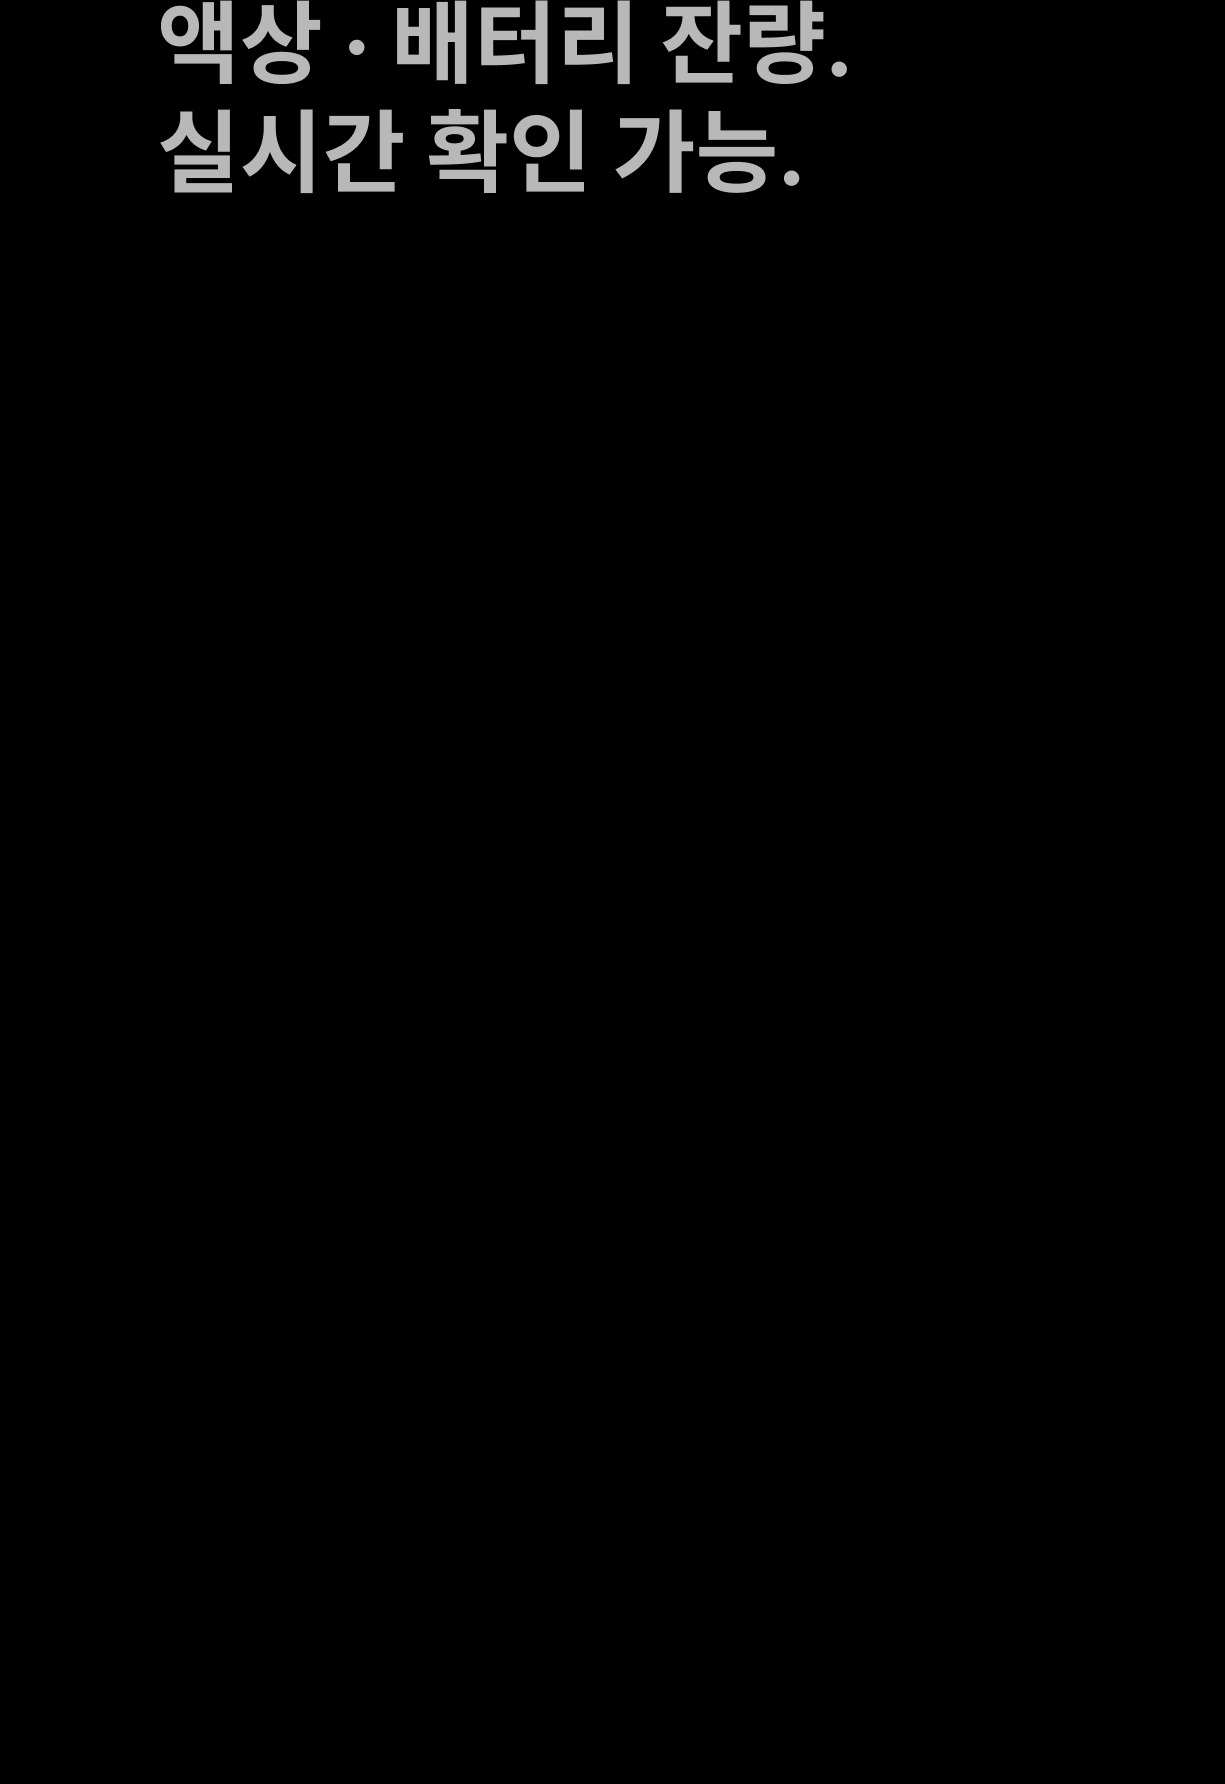
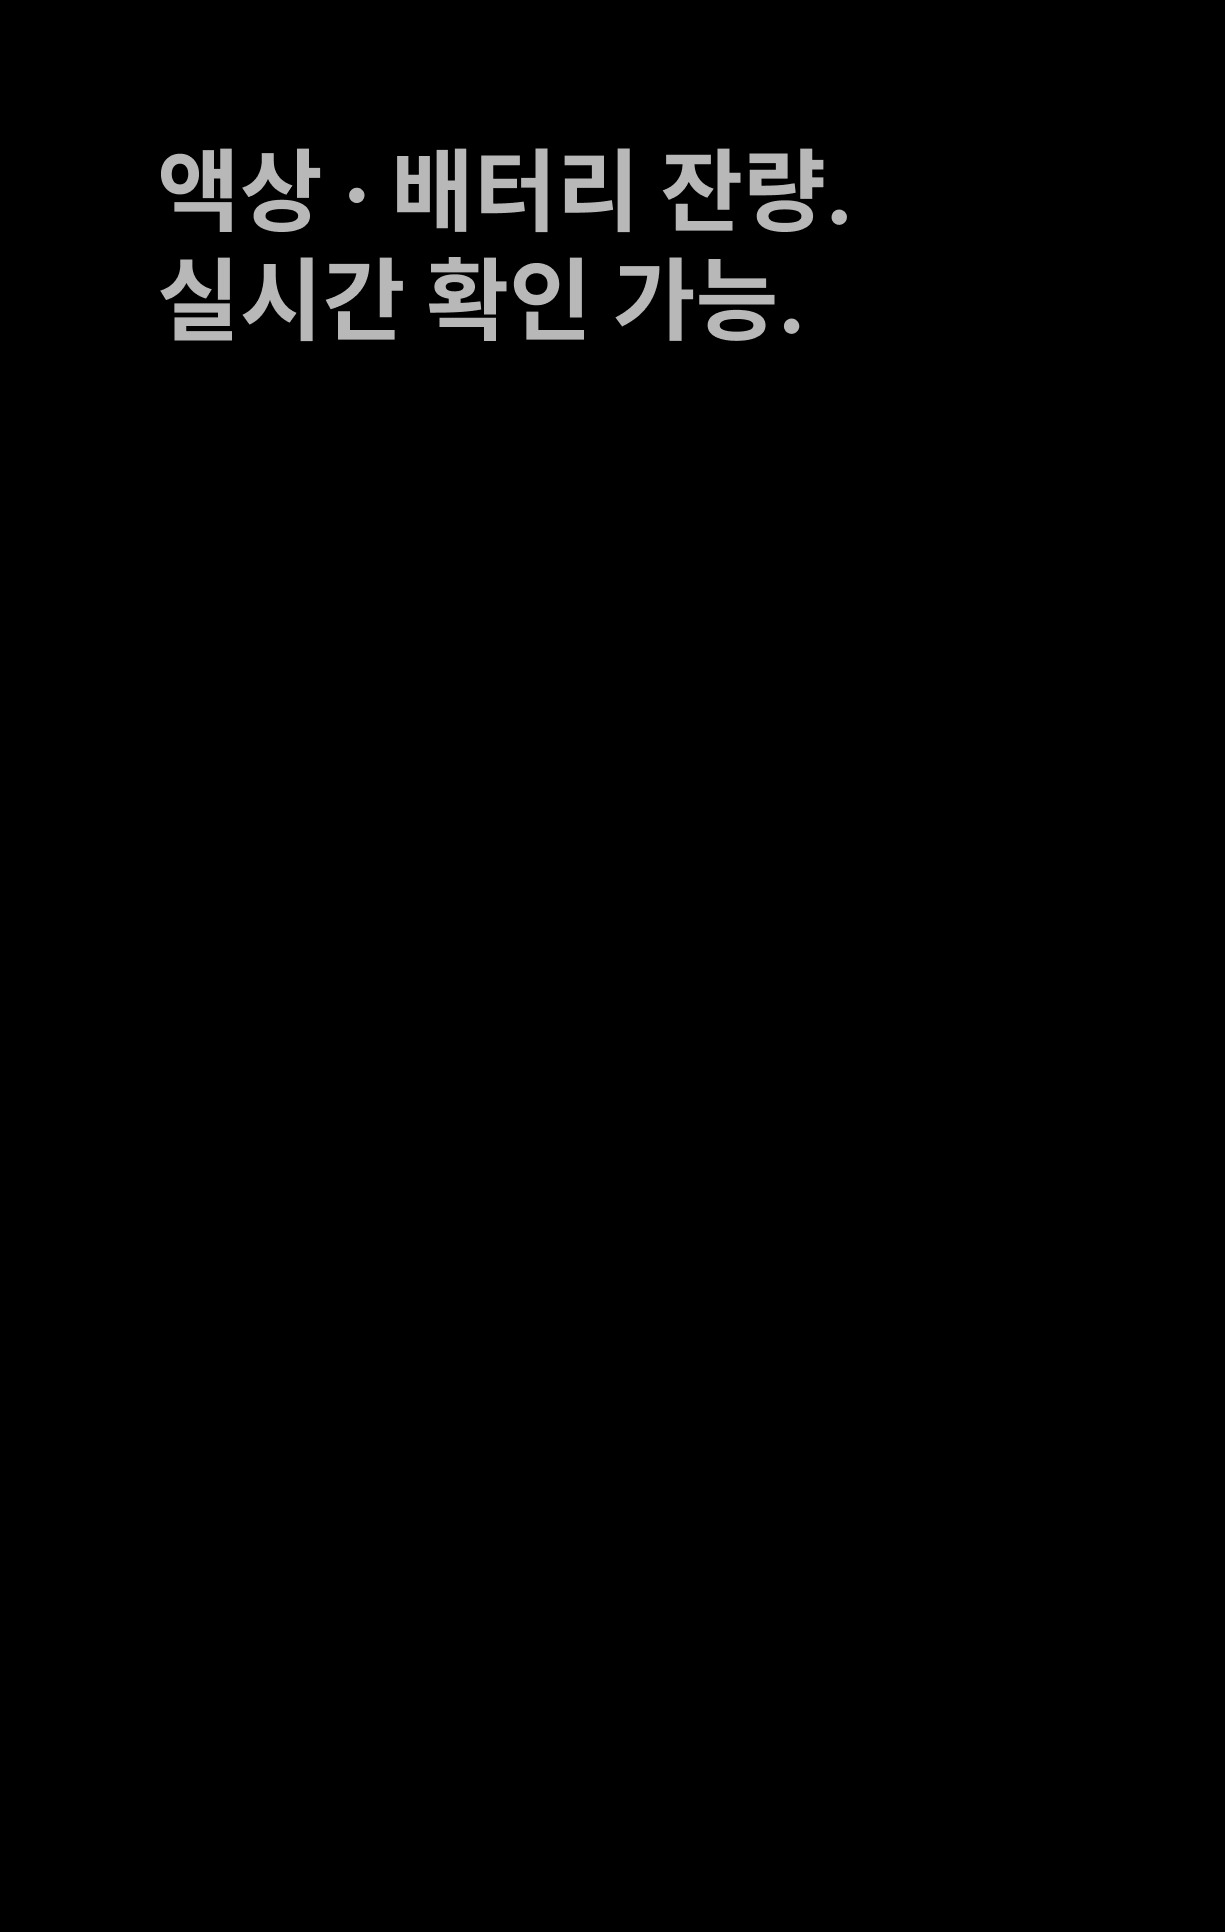
Fix frame51_4: correct slot positions matching v1/v2/v3 (8555-9470 etc)

Changed region(s): [[0.1241, 0.0, 0.6824, 0.185]]

diff --git a/frame51_4.html b/frame51_4.html
@@ -7,34 +7,101 @@
 <style>
 * { margin:0; padding:0; box-sizing:border-box; }
 body { background:#111; display:flex; justify-content:center; }
-.page { position:relative; width:1225px; height:24150px; overflow:hidden; }
+.page {
+  position:relative;
+  width:1225px;
+  height:24150px;
+  overflow:hidden;
+}
 .abs { position:absolute; left:0; }
 img.slice { display:block; width:100%; height:100%; object-fit:cover; }
 video { display:block; width:100%; height:100%; object-fit:cover; }
 </style>
 </head>
 <body>
-<div id="sticky-header" style="position:fixed;top:0;left:50%;transform:translateX(-50%);width:1225px;height:280px;overflow:hidden;z-index:9999;">
+<!-- 상단 고정 헤더 -->
+<div id="sticky-header" style="
+  position:fixed;
+  top:0;
+  left:50%;
+  transform:translateX(-50%);
+  width:1225px;
+  height:280px;
+  overflow:hidden;
+  z-index:9999;
+">
   <img src="frame51_4_slices/s0.jpg" style="display:block;width:1225px;">
 </div>
+
 <div class="page">
-  <div class="abs" style="top:0px;width:1225px;height:9081px;"><img class="slice" src="frame51_4_slices/s0.jpg"></div>
-  <div class="abs" style="top:9081px;width:1225px;height:511px;"><video autoplay loop muted playsinline><source src="1_3번gif.mp4" type="video/mp4"></video></div>
-  <div class="abs" style="top:9592px;width:1225px;height:1201px;"><img class="slice" src="frame51_4_slices/s1.jpg"></div>
-  <div class="abs" style="top:10793px;width:1225px;height:506px;"><video autoplay loop muted playsinline><source src="2번gif.mp4" type="video/mp4"></video></div>
-  <div class="abs" style="top:11299px;width:1225px;height:1226px;"><img class="slice" src="frame51_4_slices/s2.jpg"></div>
-  <div class="abs" style="top:12525px;width:1225px;height:615px;"><video autoplay loop muted playsinline><source src="3_4번gif.mp4" type="video/mp4"></video></div>
-  <div class="abs" style="top:13140px;width:1225px;height:1178px;"><img class="slice" src="frame51_4_slices/s3.jpg"></div>
-  <div class="abs" style="top:14318px;width:1225px;height:540px;"><video autoplay loop muted playsinline><source src="4_1번gif.mp4" type="video/mp4"></video></div>
-  <div class="abs" style="top:14858px;width:1225px;height:1224px;"><img class="slice" src="frame51_4_slices/s4.jpg"></div>
-  <div class="abs" style="top:16082px;width:1225px;height:576px;"><video autoplay loop muted playsinline><source src="5_1번gif.mp4" type="video/mp4"></video></div>
-  <div class="abs" style="top:16658px;width:1225px;height:1186px;"><img class="slice" src="frame51_4_slices/s5.jpg"></div>
-  <div class="abs" style="top:17844px;width:1225px;height:595px;"><video autoplay loop muted playsinline><source src="6_1번gif.mp4" type="video/mp4"></video></div>
-  <div class="abs" style="top:18439px;width:1225px;height:1241px;"><img class="slice" src="frame51_4_slices/s6.jpg"></div>
-  <div class="abs" style="top:19680px;width:1225px;height:570px;"><video autoplay loop muted playsinline><source src="7_1번gif.mp4" type="video/mp4"></video></div>
-  <div class="abs" style="top:20250px;width:1225px;height:1531px;"><img class="slice" src="frame51_4_slices/s7.jpg"></div>
-  <div class="abs" style="top:21781px;width:1225px;height:585px;"><video autoplay loop muted playsinline><source src="8번gif.mp4" type="video/mp4"></video></div>
-  <div class="abs" style="top:22366px;width:1225px;height:1784px;"><img class="slice" src="frame51_4_slices/s8.jpg"></div>
+  <!-- 정적 -->
+  <div class="abs" style="top:0px;width:1225px;height:8555px;">
+    <img class="slice" src="frame51_4_slices/s0.jpg">
+  </div>
+  <!-- 영상 슬롯 -->
+  <div class="abs" style="top:8555px;width:1225px;height:915px;">
+    <video autoplay loop muted playsinline><source src="1_3번gif.mp4" type="video/mp4"></video>
+  </div>
+  <!-- 정적 -->
+  <div class="abs" style="top:9470px;width:1225px;height:794px;">
+    <img class="slice" src="frame51_4_slices/s1.jpg">
+  </div>
+  <!-- 영상 슬롯 -->
+  <div class="abs" style="top:10264px;width:1225px;height:915px;">
+    <video autoplay loop muted playsinline><source src="2번gif.mp4" type="video/mp4"></video>
+  </div>
+  <!-- 정적 -->
+  <div class="abs" style="top:11179px;width:1225px;height:896px;">
+    <img class="slice" src="frame51_4_slices/s2.jpg">
+  </div>
+  <!-- 영상 슬롯 -->
+  <div class="abs" style="top:12075px;width:1225px;height:915px;">
+    <video autoplay loop muted playsinline><source src="3_4번gif.mp4" type="video/mp4"></video>
+  </div>
+  <!-- 정적 -->
+  <div class="abs" style="top:12990px;width:1225px;height:850px;">
+    <img class="slice" src="frame51_4_slices/s3.jpg">
+  </div>
+  <!-- 영상 슬롯 -->
+  <div class="abs" style="top:13840px;width:1225px;height:915px;">
+    <video autoplay loop muted playsinline><source src="4_1번gif.mp4" type="video/mp4"></video>
+  </div>
+  <!-- 정적 -->
+  <div class="abs" style="top:14755px;width:1225px;height:849px;">
+    <img class="slice" src="frame51_4_slices/s4.jpg">
+  </div>
+  <!-- 영상 슬롯 -->
+  <div class="abs" style="top:15604px;width:1225px;height:915px;">
+    <video autoplay loop muted playsinline><source src="5_1번gif.mp4" type="video/mp4"></video>
+  </div>
+  <!-- 정적 -->
+  <div class="abs" style="top:16519px;width:1225px;height:847px;">
+    <img class="slice" src="frame51_4_slices/s5.jpg">
+  </div>
+  <!-- 영상 슬롯 -->
+  <div class="abs" style="top:17366px;width:1225px;height:915px;">
+    <video autoplay loop muted playsinline><source src="6_1번gif.mp4" type="video/mp4"></video>
+  </div>
+  <!-- 정적 -->
+  <div class="abs" style="top:18281px;width:1225px;height:921px;">
+    <img class="slice" src="frame51_4_slices/s6.jpg">
+  </div>
+  <!-- 영상 슬롯 -->
+  <div class="abs" style="top:19202px;width:1225px;height:915px;">
+    <video autoplay loop muted playsinline><source src="7_1번gif.mp4" type="video/mp4"></video>
+  </div>
+  <!-- 정적 -->
+  <div class="abs" style="top:20117px;width:1225px;height:1186px;">
+    <img class="slice" src="frame51_4_slices/s7.jpg">
+  </div>
+  <!-- 영상 슬롯 -->
+  <div class="abs" style="top:21303px;width:1225px;height:915px;">
+    <video autoplay loop muted playsinline><source src="8번gif.mp4" type="video/mp4"></video>
+  </div>
+  <!-- 정적 -->
+  <div class="abs" style="top:22218px;width:1225px;height:1932px;">
+    <img class="slice" src="frame51_4_slices/s8.jpg">
+  </div>
 </div>
 </body>
 </html>
